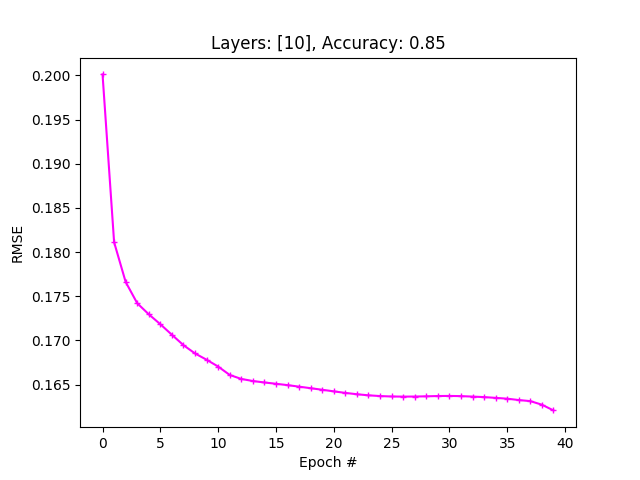
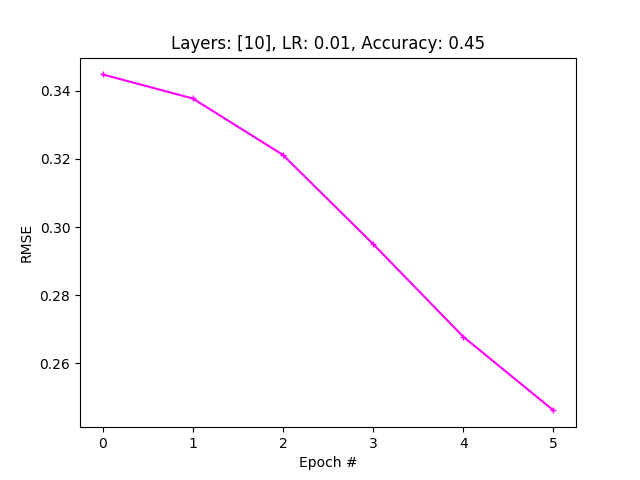
added some results

diff --git a/project4/backprop.py b/project4/backprop.py
@@ -182,7 +182,7 @@ class BackProp:
 
     def plot_RMSE(self, n):
         plt.figure(n)
-        title = "Layers: %s, Accuracy: %.2f" % (str(self.num_neurons), self.accuracy)
+        title = "Layers: %s, LR: %.2f, Accuracy: %.2f" % (str(self.num_neurons), self.learning_rate, self.accuracy)
         plt.title(title)
         plt.plot(range(self.number_epochs), self.RMSE, marker='+', linestyle='-', color='magenta', markersize=4)
         plt.xlabel('Epoch #')
@@ -223,8 +223,8 @@ def main():
                [60, 60, 60, 60, 60],
                [60, 70, 100, 70, 60]]
 
-    epochs = [40, 100, 500, 1500, 3000, 5000, 10000]
-    lrate = [0.1, 0.2, 0.4, 0.6, 0.8, 0.9, 1]
+    epochs = [6, 10, 30, 50, 100, 500, 1500, 3000, 5000, 10000]
+    lrate = [0.01, 0.1, 0.25, 0.4, 0.65, 0.8, 0.9, 1.0]
 
     for i, l in enumerate(layers):
         for j, e in enumerate(epochs):
@@ -233,7 +233,7 @@ def main():
                 print('Problem %d' % n, file=outfile)
                 print('Testing Network %d' % n)
                 BackProp(d, lr, e, len(l), l).run(n, outfile)
+    outfile.close()
 
-# d = Data('spambase.data')
-# BackProp(d, 0.1, 100, 1, [60]).run(1)
+
 main()
